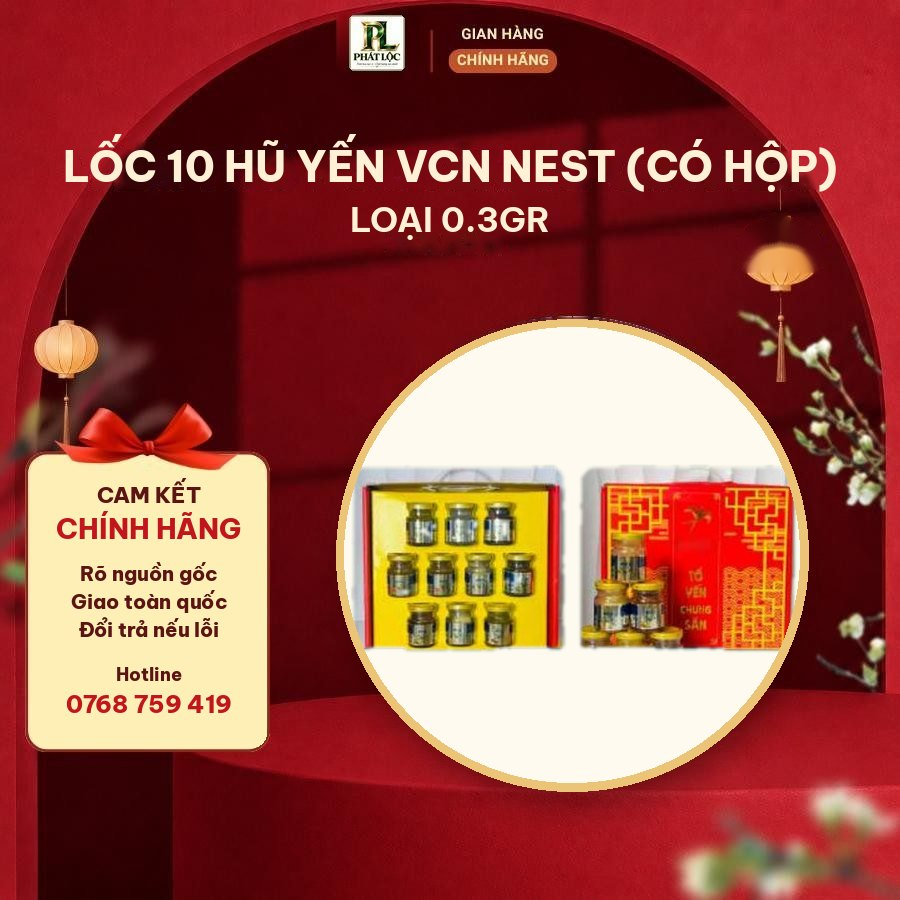
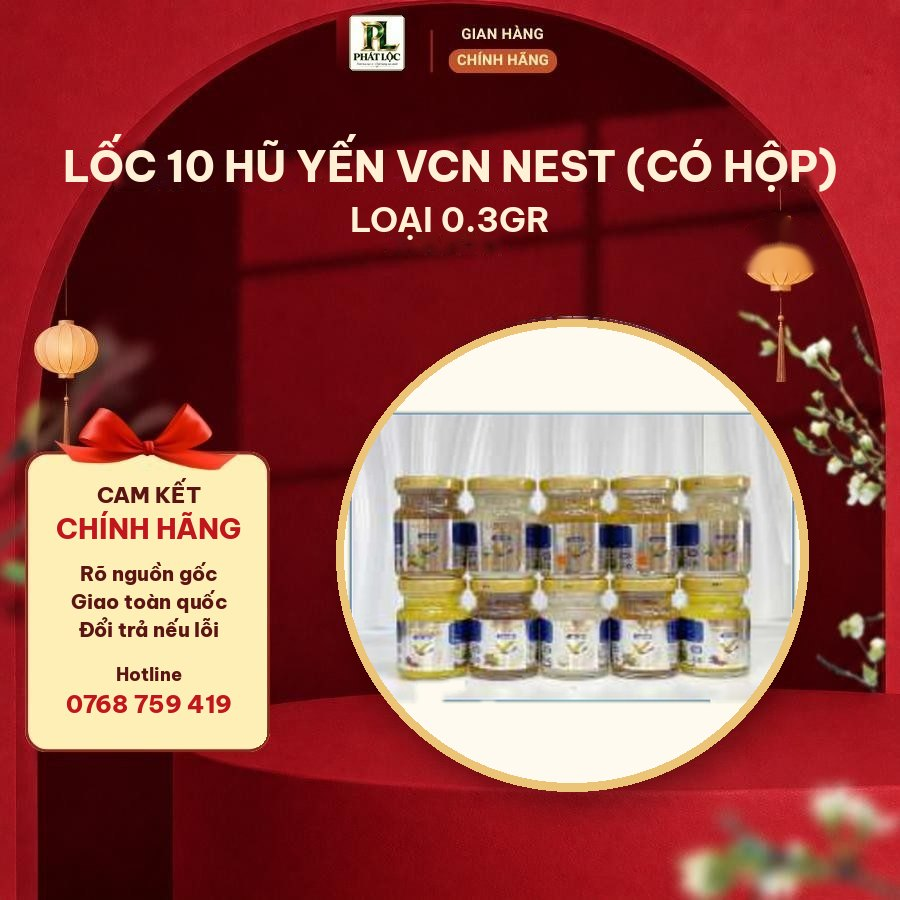
Sửa ảnh lốc 10 hũ VCN Nest có hộp (134, 135)
Đổi ảnh hộp quà "Tổ Yến Chưng" sang ảnh lốc 10 hũ VCN Nest.

Claude-Session: https://claude.ai/code/session_01UhDdGQ9quzkXf97RrXqye8

Changed region(s): [[0.3733, 0.4356, 0.9022, 0.8089]]

diff --git a/index.html b/index.html
@@ -457,8 +457,8 @@ const IMG = {
   131: ["khung/131.jpg", "catalog/vcn-nest-loc-10-0-3gr.jpg"],
   132: ["khung/132.jpg", "catalog/vcn-nest-loc-6-0-3gr.jpg"],
   133: ["khung/133.jpg", "catalog/vcn-nest-loc-6-0-3gr.jpg"],
-  134: ["khung/134.jpg", "catalog/vcn-nest-loc-10-hop-0-3gr.jpg"],
-  135: ["khung/135.jpg", "catalog/vcn-nest-loc-10-hop-0-3gr.jpg"],
+  134: ["khung/134.jpg", "catalog/vcn-nest-loc-10-0-3gr.jpg"],
+  135: ["khung/135.jpg", "catalog/vcn-nest-loc-10-0-3gr.jpg"],
   136: ["khung/136.jpg", "dong-trung-ha-thao-5.jpg", "dong-trung-ha-thao-1.jpg", "dong-trung-ha-thao-4.jpg", "catalog/nam-dong-trung-loai-cay-100gr.jpg"],
   137: ["khung/137.jpg", "dong-trung-ha-thao-2.jpg", "catalog/nam-dong-trung-loai-cay-100gr.jpg"],
   138: ["khung/138.jpg", "that/dong-trung-loai-gay-that-1.jpg", "catalog/nam-dong-trung-loai-gay.jpg"],
